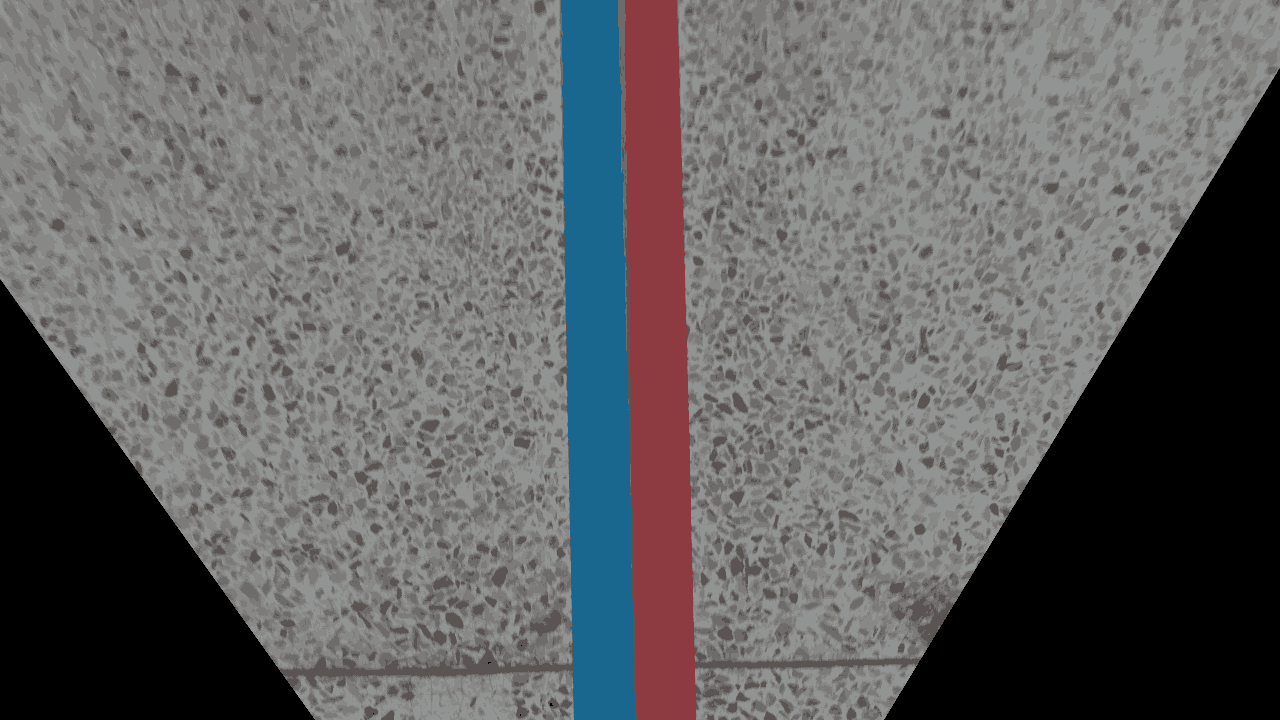
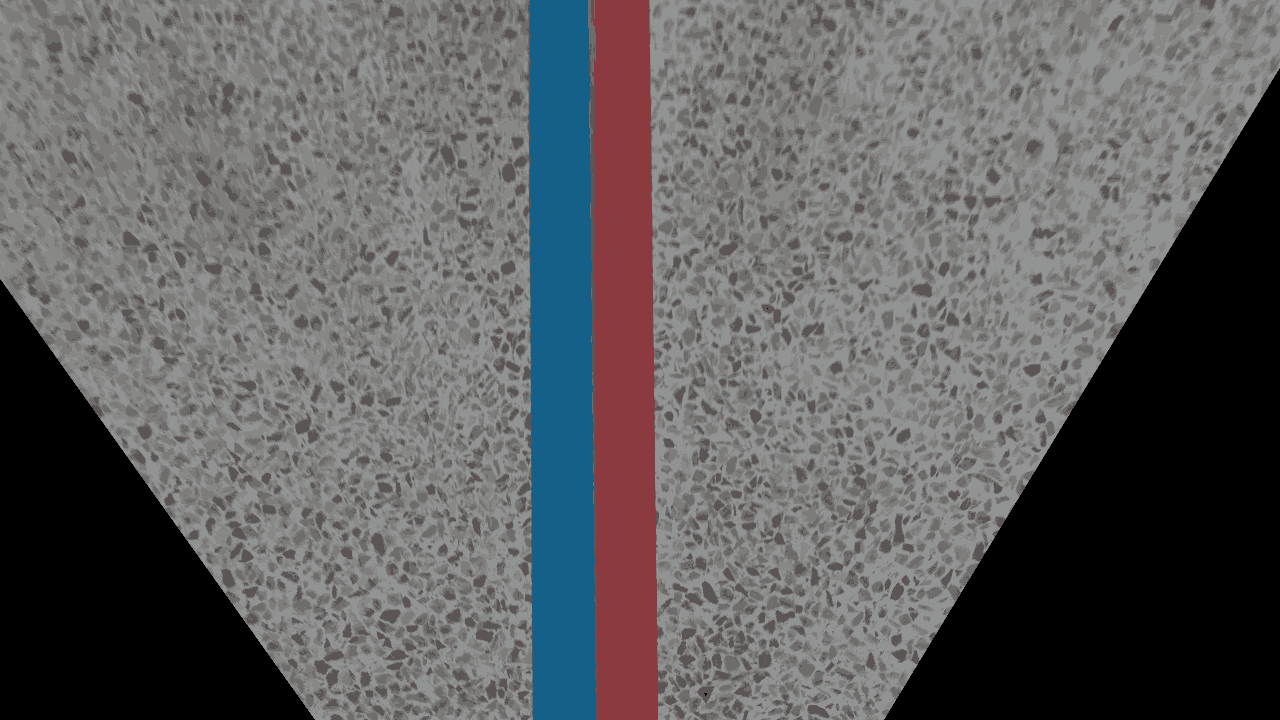
line_detection

diff --git a/camera_jh/src/line_detection_image.cpp b/camera_jh/src/line_detection_image.cpp
@@ -17,6 +17,8 @@
 //using namespace cv;
 using namespace std;
 
+int color = 1;
+
 // function for resizing topic [jh]
 // void set_array()
 // {
@@ -46,51 +48,72 @@ int main(int argc, char **argv)
   
   // Publisher for arr_wp [jh]
 //   ros::Publisher  = nh.advertise<std_msgs::Int16MultiArray>("msg_hsv", 1000);
-  
+  cv::Mat img_bin = cv::Mat::zeros(cv::Size(1280, 720), CV_8UC3);
+
   while(ros::ok())
   {
-    cv::Mat src,hsv,red_mask, red_image, gray;
-    cv::Mat img_roi, img_roi2;
-    src = cv::imread("/home/mrl/catkin_ws/src/mecanum_project/camera_jh/src/Image2.png");
-    cv::imshow("src", src);
-
-    // arr_wp publish [jh]
-    // msg_hsv.publish(dst_hsv);
-    
-    // get image [jh]
-    
-    
-    int width, height,nPoints;
-
-    // get info of img [jh]
-    width = src.cols, height = src.rows;
-    nPoints = width * height;
-
-    // change img bgr to hsv [jh]
-    cv::cvtColor(src,hsv,cv::COLOR_BGR2HSV); 
-    img_roi = hsv(cv::Rect(cv::Point(650, 400),cv::Point( 651, 401)));
-    img_roi2 = src(cv::Rect(cv::Point(650, 400),cv::Point( 651, 401)));
-    cout << img_roi << endl;
-    cout << img_roi2 << endl;
-
-    // Red_HSV_range (based on dataset)
-    cv::Scalar lower_red = cv::Scalar(170, 100, 100);
-    cv::Scalar upper_red = cv::Scalar(180, 255, 255);
-
-    // Red_HSV_range (based on dataset_1)
-    // cv::Scalar lower_red = cv::Scalar(10, 100, 100);
-    // cv::Scalar upper_red = cv::Scalar(30, 255, 255);
-
-    // Blue_HSV_range (based on dataset_ 1)
-    cv::Scalar lower_blue = cv::Scalar(110, 100, 100);
-    cv::Scalar upper_blue = cv::Scalar(130, 255, 255);
-
-    // red_mask [jh]
-    cv::inRange(hsv, lower_red, upper_red, red_mask);    
-    cv::bitwise_and(src, src, red_image, red_mask);
-    cv::imshow("red_mask",red_mask);
-    if(cv::waitKey(10)==27) break;
-    ros::spinOnce();
+  cv::Mat src, hsv, gray, image, mask, mask_sc, blur, edge;
+  
+  vector<cv::Vec4i> linesP;
+  src = cv::imread("/home/mrl/catkin_ws/src/mecanum_project/camera_jh/src/Image2.png");
+  cv::imshow("src", src);
+  // arr_wp publish [jh]
+  // msg_hsv.publish(dst_hsv);
+  
+  // get image [jh]
+  
+  
+  int width, height, nPoints;
+  // get info of img [jh]
+  width = src.cols, height = src.rows;
+  nPoints = width * height;
+  // change img bgr to hsv [jh]
+  cvtColor(src,hsv,cv::COLOR_BGR2HSV); 
+  // Red_HSV_range (based on dataset)
+  cv::Scalar lower_red = cv::Scalar(160, 100, 100);
+  cv::Scalar upper_red = cv::Scalar(180, 255, 255);
+  // Red_HSV_range (hsv of red - special case)
+  cv::Scalar lower_red_sc = cv::Scalar(0, 100, 100);
+  cv::Scalar upper_red_sc = cv::Scalar(20, 255, 255);
+  // Blue_HSV_range (based on dataset_ 1)
+  cv::Scalar lower_blue = cv::Scalar(90, 100, 100);
+  cv::Scalar upper_blue = cv::Scalar(130, 255, 255);
+  // hsv detect
+  // mask : color 1 is red / color 2 is blue
+  //========================================================================
+  if(color ==1)
+  {
+    inRange(hsv, lower_red, upper_red, mask);  
+    inRange(hsv, lower_red_sc, upper_red_sc, mask_sc);
+    bitwise_or(mask, mask_sc, mask);
+    bitwise_and(src, src, image, mask);
+    cv::imshow("red", image);
+  }
+  else if (color ==2)
+  {
+    inRange(hsv, lower_blue, upper_blue, mask);  
+    bitwise_and(src, src, image, mask);
+    cv::imshow("blue", image);
+  }
+  //========================================================================
+  // line detect[W]
+  //========================================================================
+  cvtColor(image, gray, cv::COLOR_BGR2GRAY);
+  GaussianBlur( gray, blur, cv::Size(7, 7), 0);
+  Canny(blur, edge, 10, 150);
+  cv::imshow("edge", edge);
+  HoughLinesP(edge, linesP, 1, (CV_PI / 180), 50, 100, 100);
+  
+  for (size_t i = 0; i < linesP.size(); i++)
+  {
+    cv::Vec4i line = linesP[i];
+    cv::line(img_bin, cv::Point(line[0], line[1]), cv::Point(line[2], line[3]), cv::Scalar(255, 255, 255), 2, 8);
+    cout << linesP[i] << endl;      
+  }
+  cv::imshow("img_bin", img_bin);
+  
+  if(cv::waitKey(10)==27) break;
+  ros::spinOnce();
   }
   return 0;
 }

diff --git a/camera_jh/src/copy_test.cpp b/camera_jh/src/copy_test.cpp
@@ -1,0 +1,98 @@
+#include <opencv2/highgui.hpp>
+#include <opencv2/imgproc.hpp>
+#include <opencv2/core.hpp>
+#include <iostream>
+
+using namespace std;
+using namespace cv;
+
+#define PI 3.1415926
+
+int main() {
+	Mat input = imread("/home/mrl/catkin_ws/src/mecanum_project/camera_jh/src/Image2.png", IMREAD_GRAYSCALE);
+	Mat contours;
+	vector<Vec4i> lines;
+
+	// applying canny algorithm
+	Canny(input, contours, 125, 350);
+
+	/************* Probabilistic hough transform *************/
+	HoughLinesP(contours,	// InputArray
+		lines,				// OutputArray
+		1,					// rho
+		PI / 180,			// theta (step size)
+		60,					// threshold (minimum number of votes)
+		100,				// minLength
+		20);				// maxGap
+
+	Mat houghLinesP;
+	input.copyTo(houghLinesP);
+
+	// Draw the lines
+	Scalar color = Scalar(0, 0, 255);
+	vector<Vec4i>::const_iterator it = lines.begin();
+	while (it != lines.end()) {
+		Point pt1((*it)[0], (*it)[1]);
+		Point pt2((*it)[2], (*it)[3]);
+		line(houghLinesP, pt1, pt2, color);
+		++it;
+	}
+
+	imwrite("houghLinesP.bmp", houghLinesP);
+
+	/************* Fitting a line *************/
+	// black background
+	Mat oneline(contours.size(), CV_8U, Scalar(0));
+	
+	// Select first line and draw white line
+	int n = 0;	
+	line(oneline,
+		Point(lines[n][0], lines[n][1]),
+		Point(lines[n][2], lines[n][3]),
+		Scalar(255),
+		3);	// line width
+
+	imwrite("[BeforeBitwise]online.bmp", oneline);
+
+	// contours AND white line
+	bitwise_and(contours, oneline, oneline);	// src1, src2, dst
+
+	// insert into a vector<Point>
+	vector<Point> points;
+
+	// Iterate over the pixels to obtain all point positions
+	for (int y = 0; y < oneline.rows; y++) {
+		// row y
+		uchar* rowPtr = oneline.ptr<uchar>(y);
+
+		for (int x = 0; x < oneline.cols; x++) {
+			// column x
+			if (rowPtr[x]) {	// if on a contour
+				points.push_back(Point(x, y));
+			}
+		}
+	}
+
+	Vec4f line;
+	fitLine(points, line,
+		DIST_L2,		// distance type
+		0,				// not used with L2 distance
+		0.01, 0.01);	// accuracy
+
+	int x0 = line[2];	// a point on the line
+	int y0 = line[3];
+	int x1 = x0 + 150 * line[0];
+	int y1 = y0 + 150 * line[1];
+	// draw the line
+	Mat result;
+	input.copyTo(result);
+	cv::line(result, Point(x0, y0), Point(x1, y1), 
+		0, 2);	// color and thickness
+
+
+	/************* Image writer *************/
+	imwrite("input.bmp", input);
+	imwrite("contours.bmp", contours);
+	imwrite("[AfterBitwise]online.bmp", oneline);
+	imwrite("Fitted line.bmp", result);
+}
